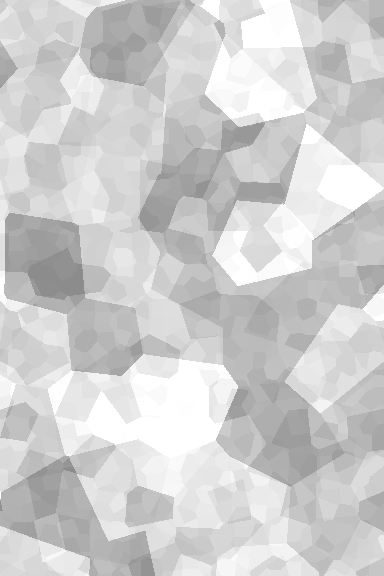
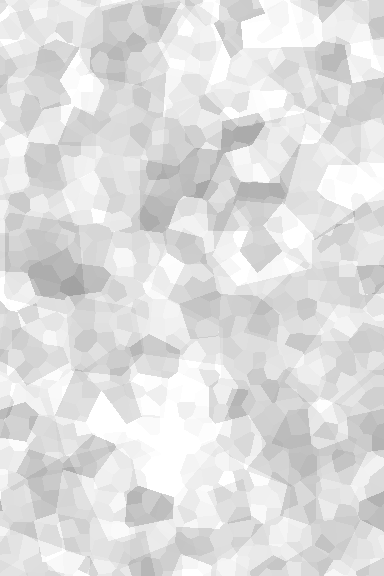
Textura de arrugas más fina y sutil al final

diff --git a/index.html b/index.html
@@ -4,12 +4,12 @@
 <meta charset="UTF-8">
 <meta name="viewport" content="width=device-width, initial-scale=1, maximum-scale=1">
 <title>Corazón de partículas 3D</title>
-<link rel="stylesheet" href="style.css?v=31">
+<link rel="stylesheet" href="style.css?v=32">
 </head>
 <body>
 <div class="sign" id="sign">Samantha · 05/05/2007</div>
 <div class="hint" id="hint">arrastra el corazón · toca las estrellas</div>
 <script src="https://cdnjs.cloudflare.com/ajax/libs/three.js/r128/three.min.js"></script>
-<script src="script.js?v=31"></script>
+<script src="script.js?v=32"></script>
 </body>
 </html>

diff --git a/script.js b/script.js
@@ -789,7 +789,7 @@
 
   const crA = letter.querySelector('.cr-a'), crB = letter.querySelector('.cr-b');
   function setWrinkle(u) {   // u: 0 = muy arrugado ... 1 = hoja con pliegues suaves
-    crA.style.opacity = (1 - 0.7 * u).toFixed(3);
+    crA.style.opacity = (1 - 0.8 * u).toFixed(3);
     crB.style.opacity = (0.95 * (1 - u) * (1 - u)).toFixed(3);
   }
   // borde irregular, como papel rasgado
